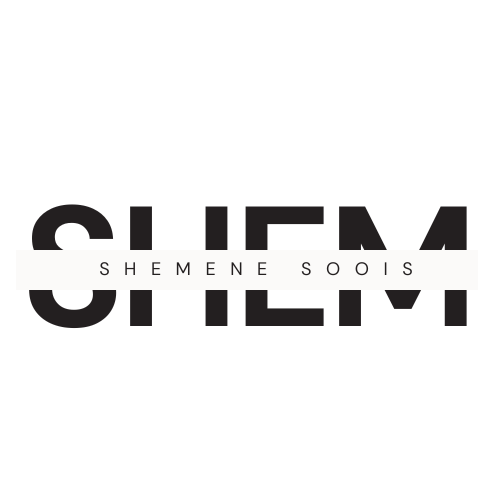
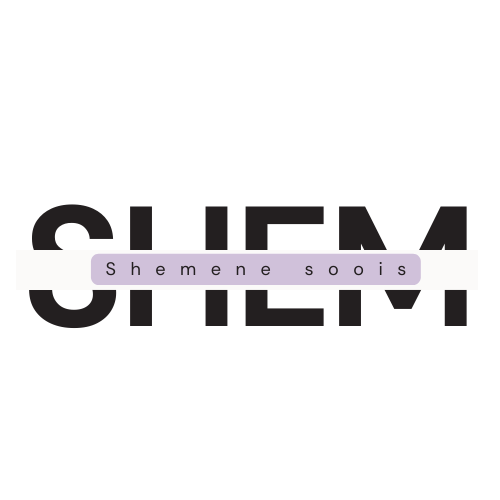
Final commit for week 2 homework

Changed region(s): [[0.18, 0.51, 0.84, 0.57]]

diff --git a/style.css b/style.css
@@ -49,11 +49,13 @@ p {
 .contact:hover {
   color: white;
   background: blueviolet;
+  text-decoration: none;
 }
 
 .about:hover {
   color: blueviolet;
   background: white;
+  text-decoration: none;
 }
 
 /*About page*/
@@ -74,7 +76,7 @@ p {
 }
 .home-link:hover {
   color: white;
-  background: blueviolet;
+  background: rgb(112, 62, 160);
   text-decoration: none;
 }
 #about {
@@ -84,9 +86,10 @@ p {
 }
 #about-p-one {
   font-family: var(--page-font);
-  font-size: 20px;
-  color: black;
+  font-size: 30px;
+  color: rgb(133, 105, 105);
   font-weight: 400;
+  text-align: center;
 }
 .contaner-about {
   display: flex;
@@ -98,6 +101,12 @@ p {
   text-decoration: none;
   color: rgb(80, 3, 153);
   font-size: 20px;
+  text-decoration: none;
+}
+
+.email:hover {
+  text-decoration: none;
+  color: #e2b7e6;
 }
 
 .p-one {
@@ -134,21 +143,28 @@ p {
 }
 
 .custom-box {
-  border: 4px solid rgb(238, 209, 209); 
-  background-color: #ddd4dd; 
-  padding: 35px;
-  text-align: center; 
-  height: 100%; 
-  display: flex; 
-  flex-direction: column; 
-  justify-content: center; 
-  border-radius: 50px;
+  border: 2px solid #e2b7e6;
+  background-color: #f4dff6;
+  padding: 20px;
+  text-align: center;
+  height: 100%;
+  display: flex;
+  flex-direction: column;
+  justify-content: center;
+  border-radius: 20px;
 }
 
-.col-4 {
-  display: flex; 
-}
-
-.col-4 > div {
-  height: 100%; 
+@media (min-width: 768px) {
+  .row {
+    display: flex;
+    flex-wrap: wrap;
+  }
+  .col-md-4 {
+    display: flex;
+    flex: 1 0 33.333333%;
+  }
+  .col-md-4 > div {
+    height: 100%;
+    width: 100%;
+  }
 }

diff --git a/index.html b/index.html
@@ -78,7 +78,7 @@
         <div class="col-md-6" style="margin-top: 20px;">
             <h3 class="text-center">Portfolio Site</h3>
             <p class="text-muted"><strong>My Portfolio </strong>site is to showcase all of the web applications and sites I have built.</p>
-            <a href="#" class="btn1 btn btn-primary stretched-link">Visit</a>
+            <a target="_blank" href="https://shemene.github.io/Portfolio-website/" class="btn1" class="btn btn-primary stretched-link">Visit</a>
         </div>
     </div>
     <hr><br>
@@ -93,7 +93,7 @@
         <h3 class="text-center">Weather App</h3>
                 <p class="text-muted"><strong>Weather App </strong> making use of a real API in order to give real time datat when searching for the weather in your City</p>
            
-        <a href="#" class="btn1" class="btn btn-primary stretched-link">Visit</a></div>
+        <a target="_blank" href="https://weather-app-final-shemene.netlify.app" class="btn1" class="btn btn-primary stretched-link">Visit</a></div>
 
         </div>
 <hr><br>
@@ -105,7 +105,7 @@
         <h3 class="text-center">Yogurt shop</h3>
                 <p class="text-muted"><strong>Yogurt orders </strong>taken...my very first encounter with using Javascript in a real web APP.</p>
          
-       <a href="#" class="btn1" class="btn btn-primary stretched-link">Visit</a></div>
+       <a target="_blank" href="https://www.shecodes.io/cohorts/shecodes-basics-aa720d5b-dff2-4b5a-8daf-95ca8530af49/projects/1879733" class="btn1" class="btn btn-primary stretched-link">Visit</a></div>
 
         </div>
 

diff --git a/about.html b/about.html
@@ -33,30 +33,28 @@
 
     <div class="container">
       <div class="row">
-        <div class="col-4">
+        <div class="col-md-4">
           <div class="custom-box">
-            <img src="Portfolio.png" class="img-fluid rounded" alt="Image 1" />
+            <img src="Portfolio.png" class="img-fluid" alt="Image 1" />
           </div>
         </div>
-        <div class="col-4">
+        <div class="col-md-4">
           <div class="custom-box">
-            <img
-              src="Weather APP.png"
-              class="img-fluid rounded"
-              alt="Image 2"
-            />
+            <img src="Weather APP.png" class="img-fluid" alt="Image 2" />
           </div>
         </div>
-        <div class="col-4">
+        <div class="col-md-4">
           <div class="custom-box">
-            <img src="yogurt.png" class="img-fluid rounded" alt="Image 3" />
+            <img src="yogurt.png" class="img-fluid" alt="Image 3" />
           </div>
         </div>
       </div>
     </div>
-
+    <hr />
     <br />
-    <footer id="contact-me">
+
+    <footer>
+      <p id="about-p-one">Contact me📩</p>
       <br />
       <a class="email" href="mailto:shemenekok@gmail.com"
         >shemenekok@gmail.com</a
